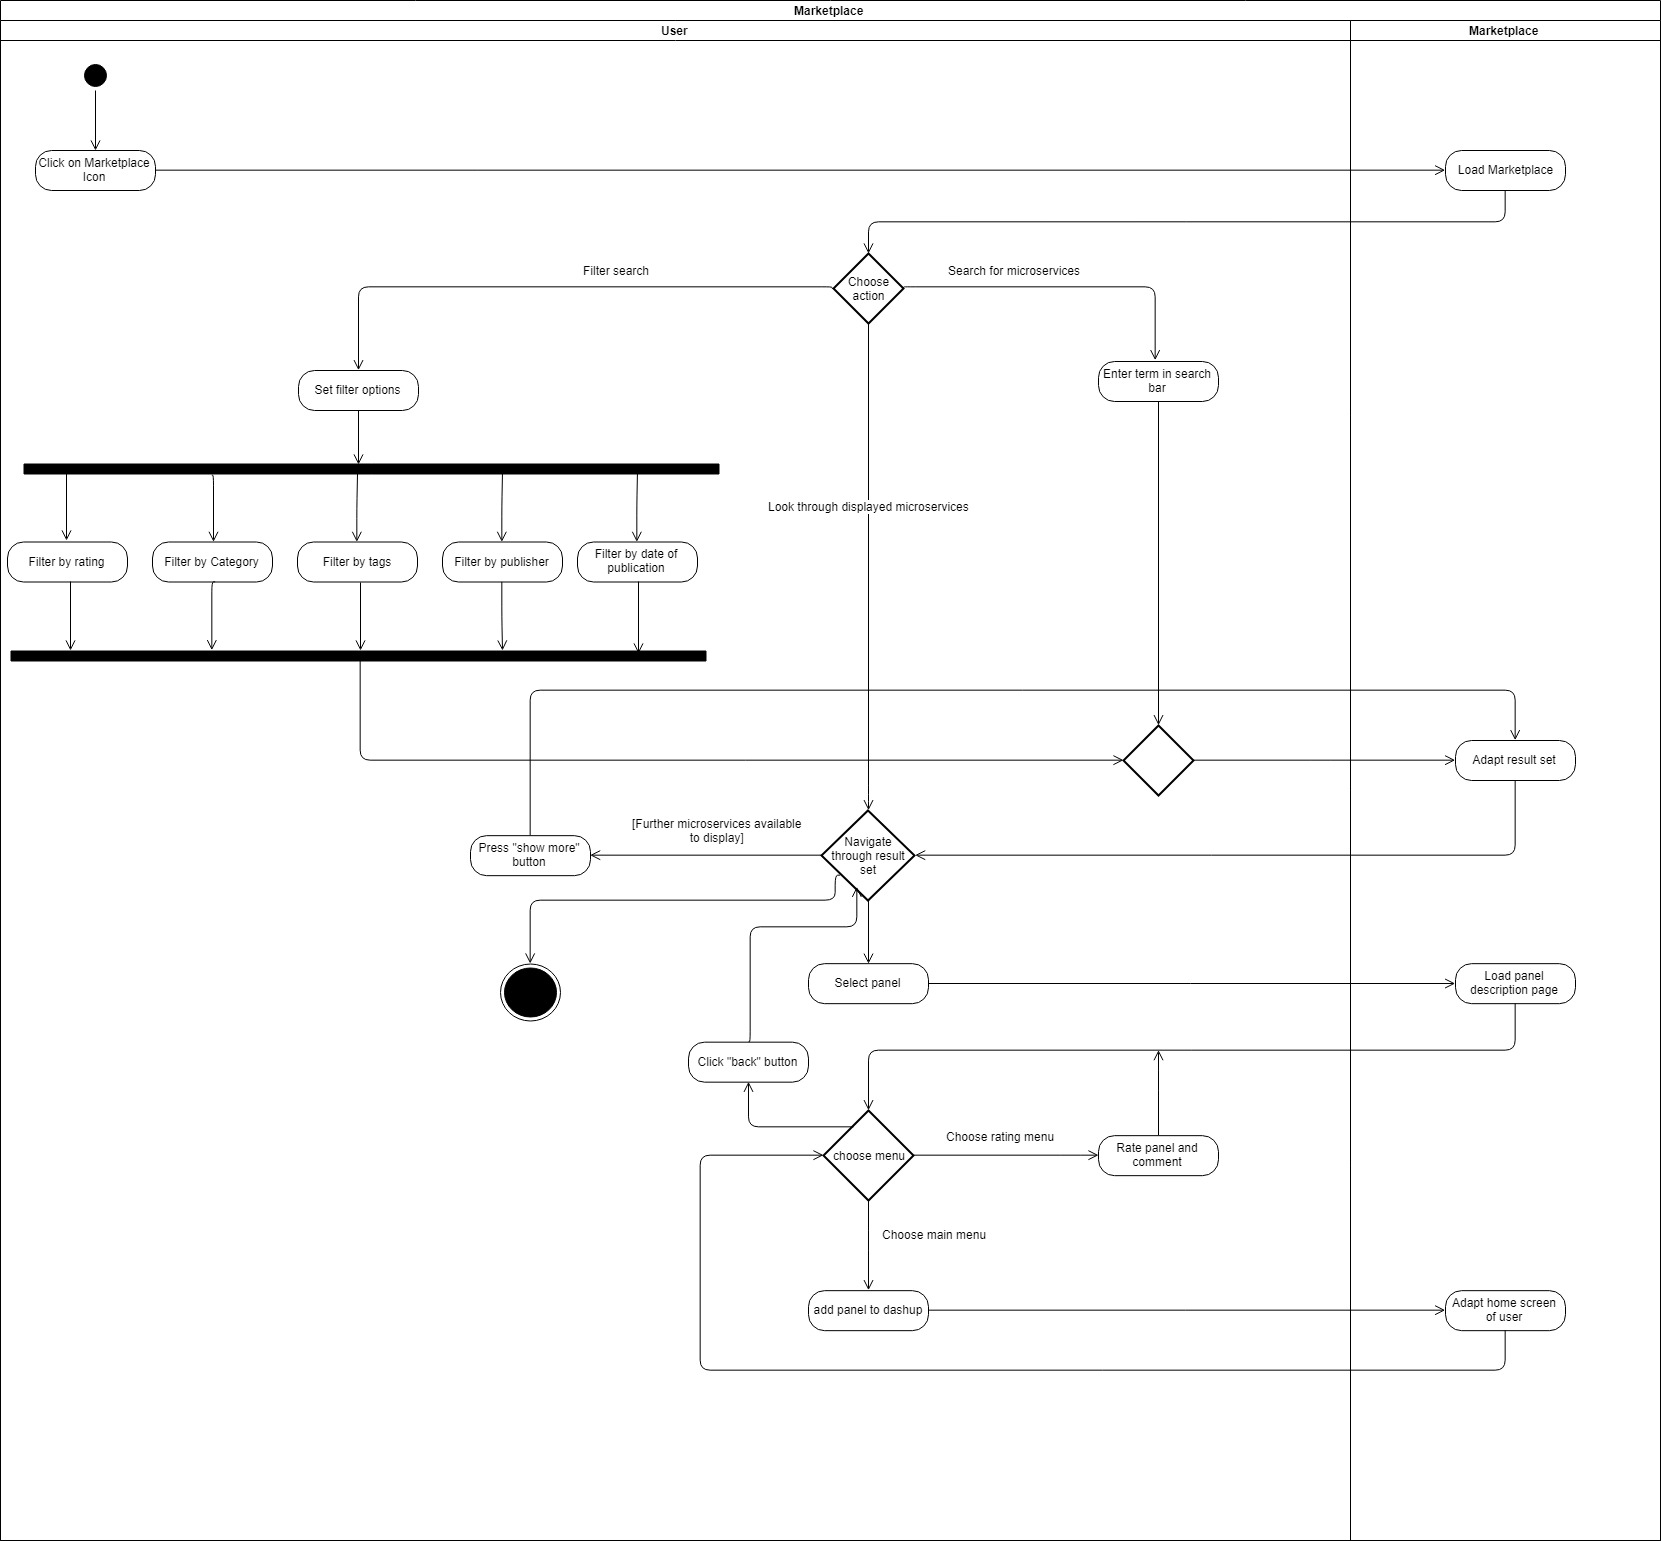
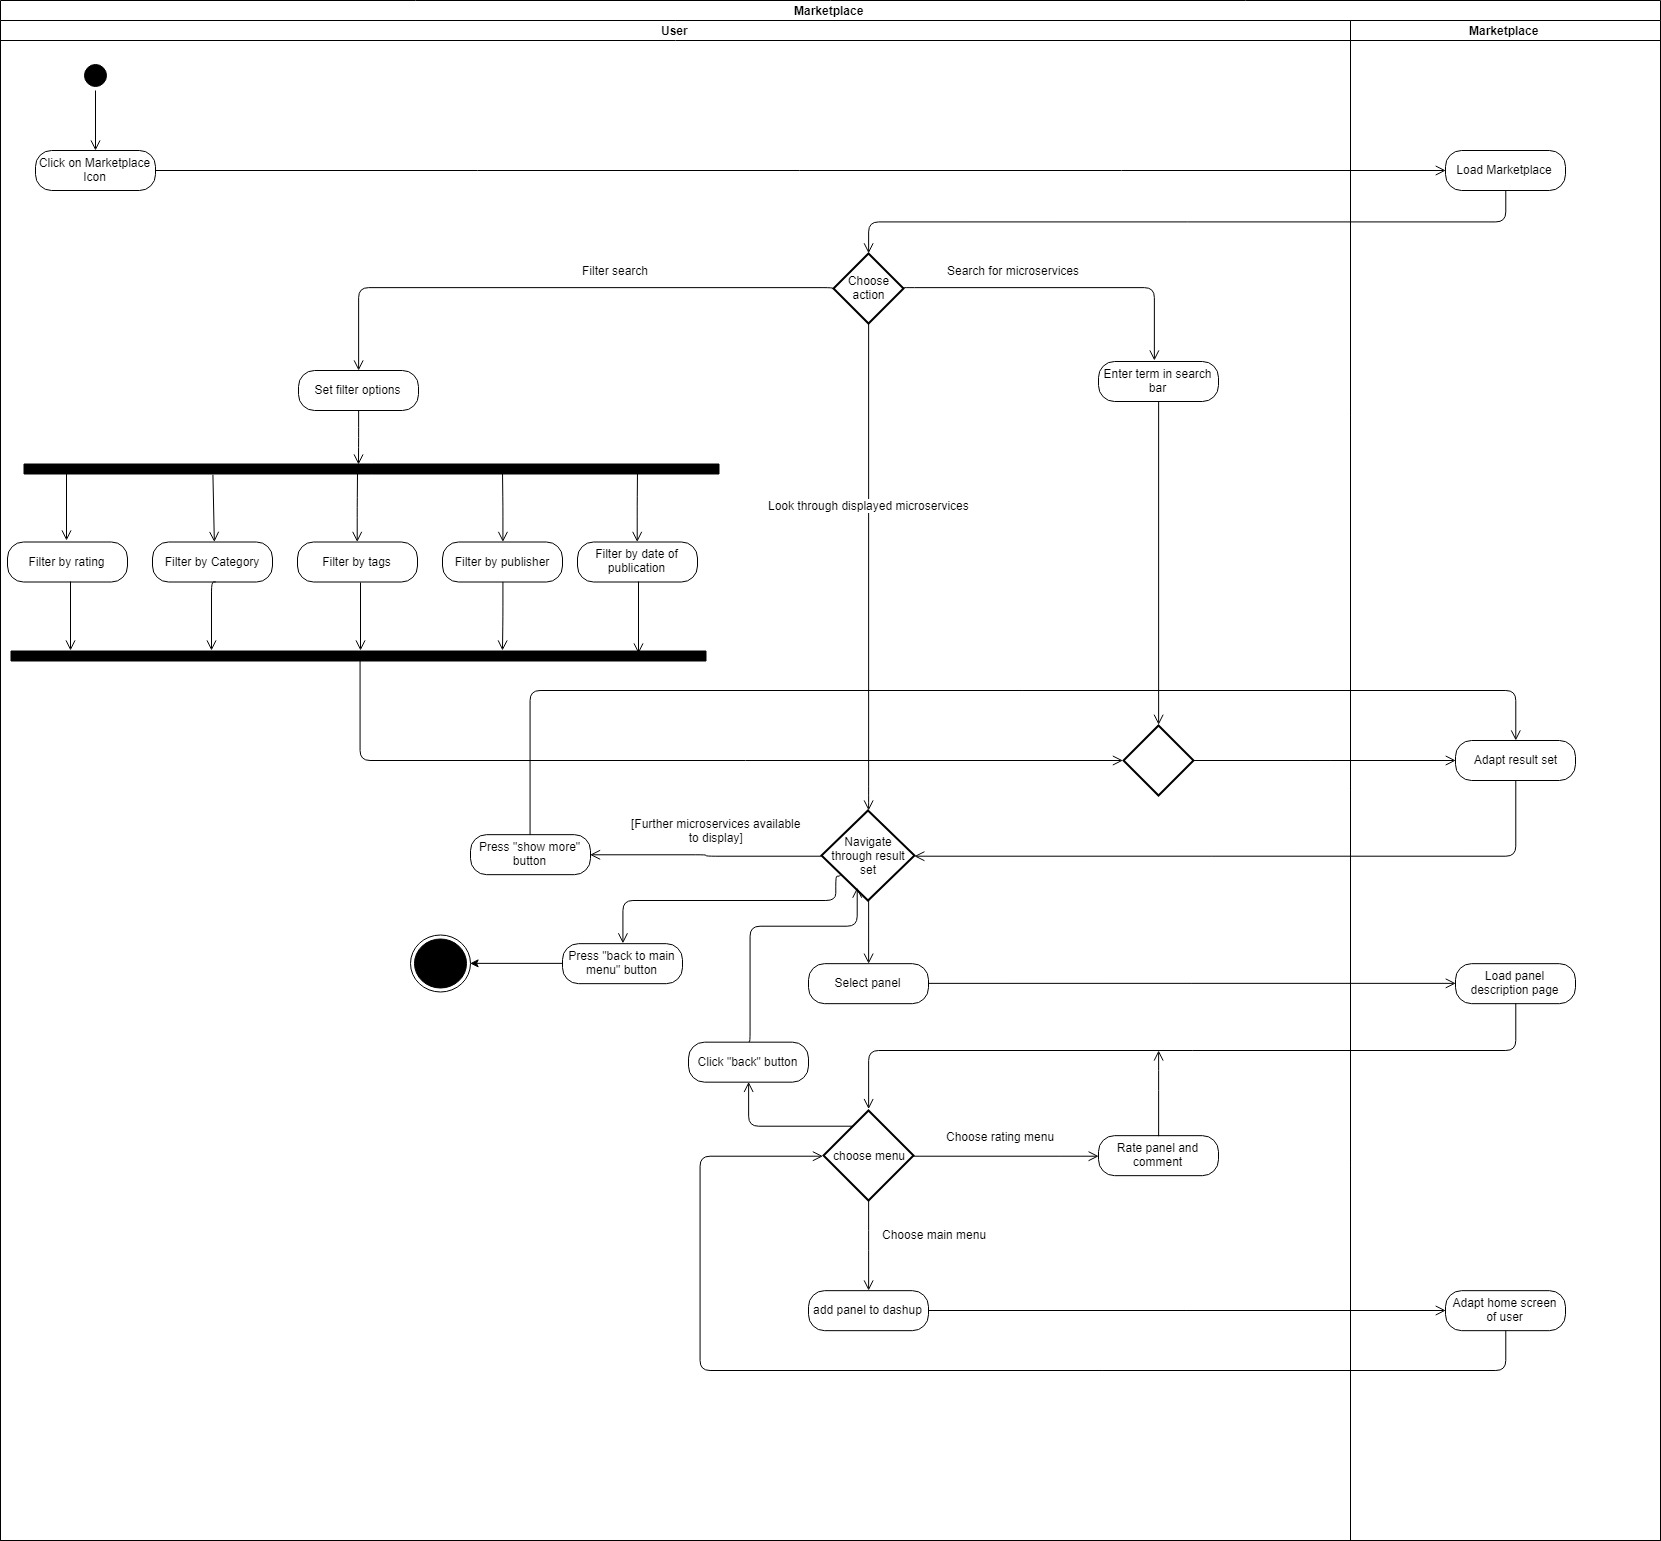
PR: reworked Activity diagram marketplace

diff --git a/docs/srs/SRS.md b/docs/srs/SRS.md
@@ -1,12 +1,13 @@
 dashup - Software Requirements Specification
 ============================================
-### Version 1.0
+### Version 1.1
 
 # Revision history
 
-| Date       | Version | Description           | Author           |
-|------------|---------|-----------------------|------------------|
-| 21/10/2018 | 1.0     | Initial Specification | Felix Hausberger |
+| Date       | Version | Description                                          | Author           |
+|------------|---------|------------------------------------------------------|------------------|
+| 21/10/2018 | 1.0     | Initial Specification                                | Felix Hausberger |
+| 28/10/2018 | 1.1     | Functionality description: Marketplace and Layouting | Sven Leonhard    |
 
 # Table of Contents
 
